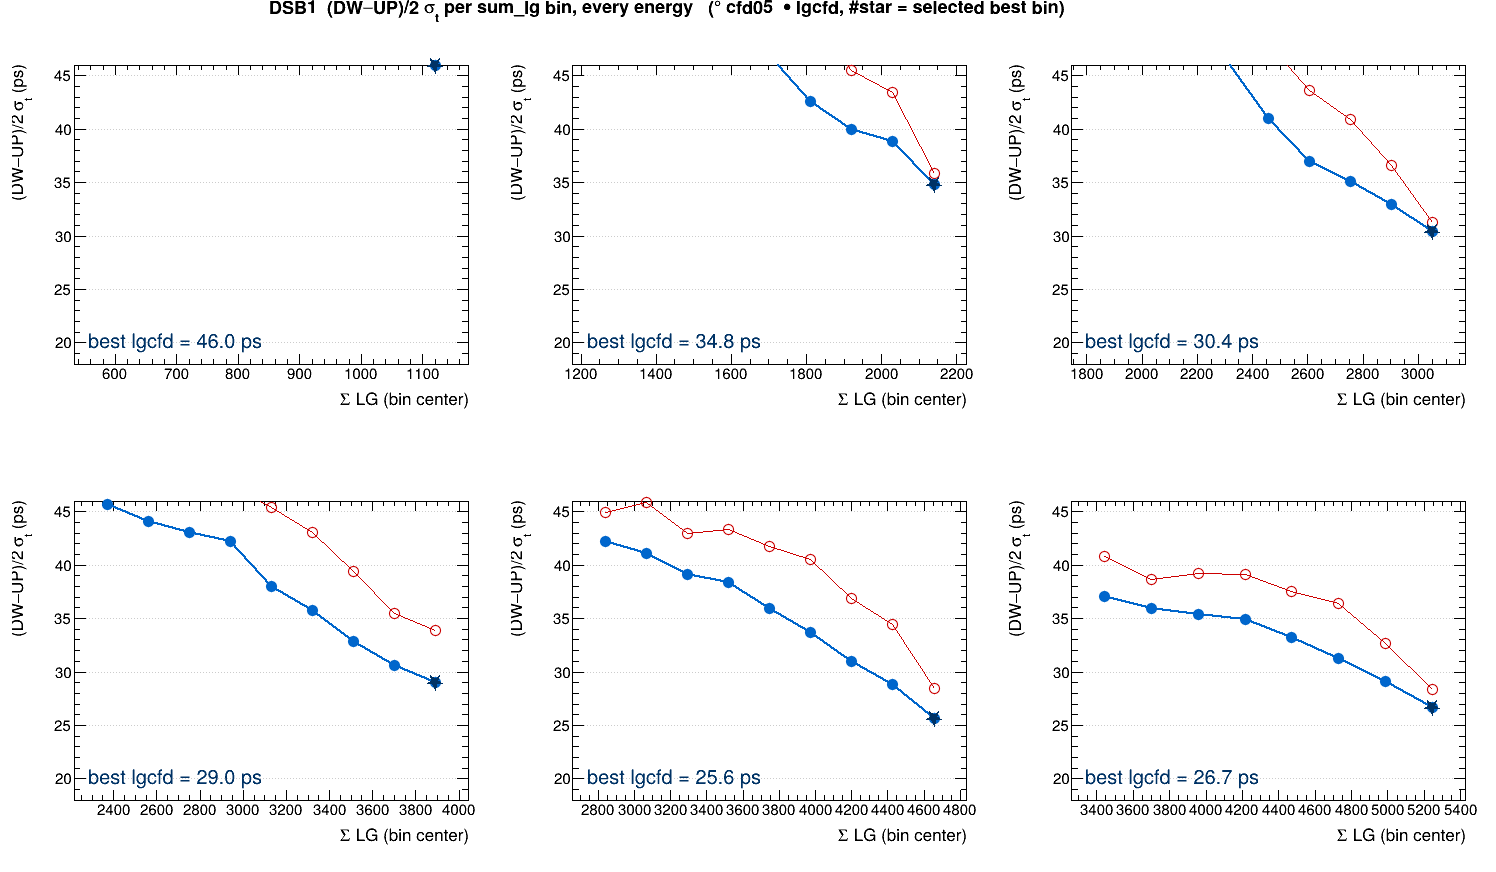
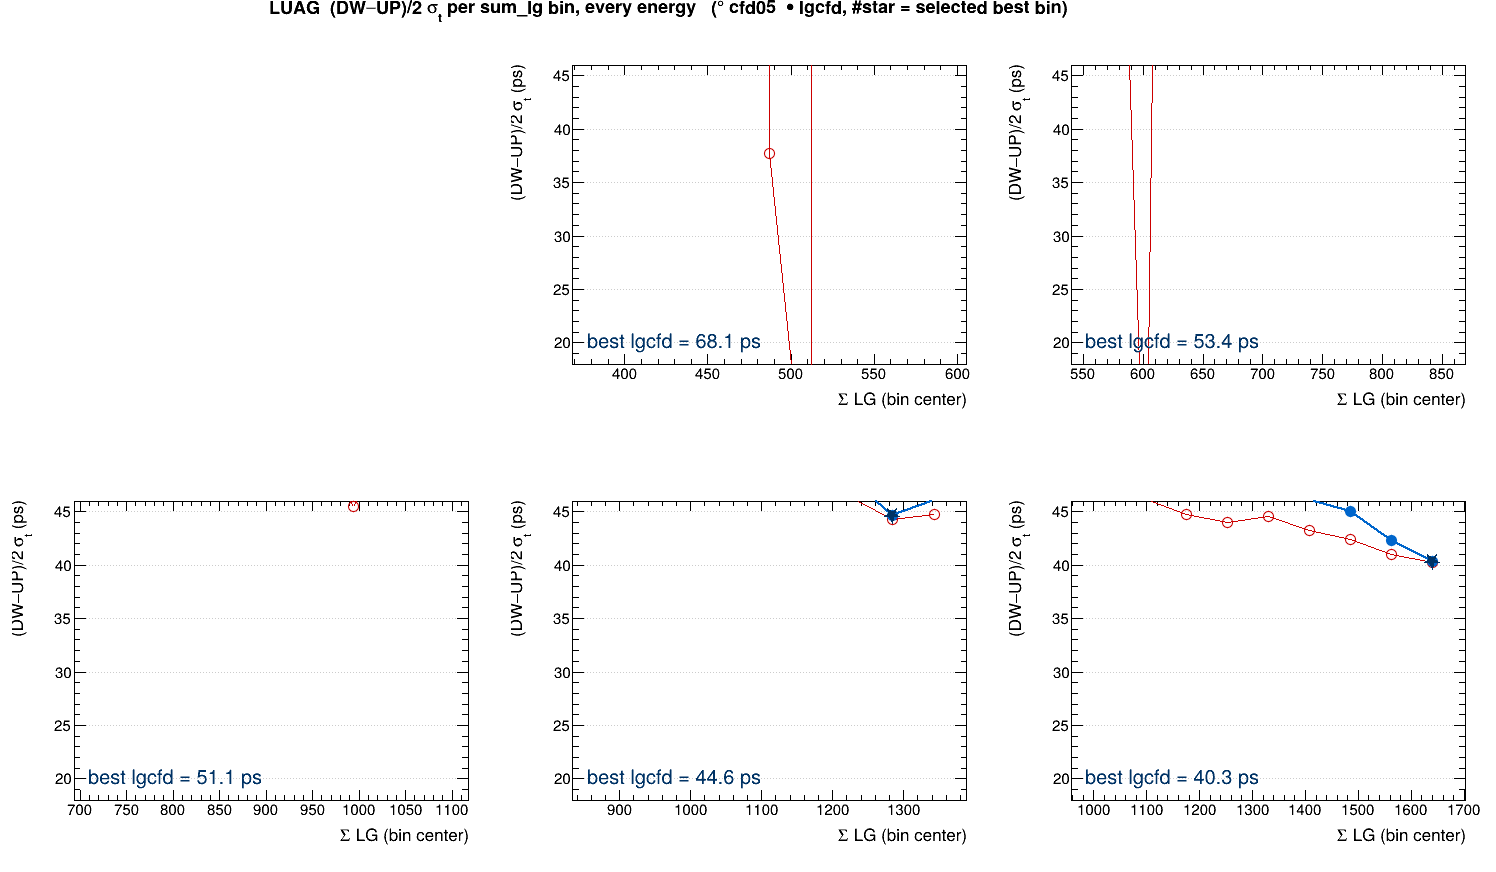
timing: LuAG isn't a bad bin — it's the low-light penalty (honest error bars)
james: what's up with LuAG; same reasoning as MIXED? No — different cause. MIXED
had a degenerate sub-floor bin (fixed by the >22 guard). LuAG (LuAG:Ce, ~5-10x
less light than DSB1: sum_lg ~487-1330 vs ~850-4472) is genuine low-light scatter.
Its ~5 ps point-to-point jumps far exceed sigma/sqrt(2N) ~ 0.3 ps -> same lesson as
the floor fits (chi2/ndf >> 1): the bare stat error misses point-to-point
systematics. Cross-build figure now carries error bars inflated by sqrt(chi2/ndf):
DSB1/TENERGY tiny (bright -> precise), LuAG huge (~+-10 ps) -> LuAG's jumpiness is
fully consistent with a smooth monotonic curve. Not a glitch, the low-light price.
crossBuild.C: TGraphErrors + PDG error scaling. Act VII caption/pull updated.

diff --git a/site/timing_story.html b/site/timing_story.html
@@ -250,15 +250,16 @@
   <figure>
     <img src="assets/narrative_crossbuild.png" alt="sigma_t vs energy for four builds, de-biased">
     <figcaption><b>The full spectrum.</b> Best-bin (DW&minus;UP)/2 &sigma;<sub>t</sub> vs energy, all four builds, de-biased
-    estimator. High-light <b>LYSO (DSB1)</b> sits lowest at ~30 ps; low-light <b>LuAG</b> tops out near 42 ps; the
-    mixed and energy builds fall cleanly in between. The best timing source also tracks the material: high-light,
-    heavily-clipped LYSO rewards <span class="mono">lgcfd</span> (true-peak edge), while dimmer LuAG &mdash; never
-    clipped &mdash; times best right at the <span class="mono">cfd05</span> foot. (MIXED's LG is partly compromised, so
-    treat its mid-range points as indicative.)</figcaption>
+    estimator. Error bars are scaled to the real point-to-point scatter (&radic;(&chi;&sup2;/ndf) &mdash; the bare
+    &sigma;/&radic;(2N) badly understates it). High-light <b>LYSO (DSB1)</b> sits lowest (~30 ps) with <b>tiny</b> error
+    bars; low-light <b>LuAG</b> tops out near 42 ps with <b>large</b> ones &mdash; its apparent jumpiness is fully
+    consistent with a smooth curve, the price of ~10&times; less light (not a bad bin). The best timing source also tracks
+    the material: clipped high-light LYSO rewards <span class="mono">lgcfd</span> (true-peak edge); dim, never-clipped
+    LuAG times best at the <span class="mono">cfd05</span> foot. (MIXED's LG is partly compromised.)</figcaption>
   </figure>
-  <div class="pull"><b>The spectrum, in one line.</b> Timing resolution is a light-yield thermometer: ~30 ps for the
-  brightest LYSO build down to ~42 ps for low-light LuAG &mdash; and the HG/LG-ratio method pays off precisely where
-  the light is brightest and the clipping is worst. The detector you build sets the clock you can read.</div>
+  <div class="pull"><b>The spectrum, in one line.</b> Timing resolution is a light-yield thermometer &mdash; and so is its
+  <i>precision</i>: ~30 ps with tight error bars for the brightest LYSO build, down to ~42 ps with wide ones for low-light
+  LuAG. More light buys you both a faster clock and a steadier reading. The detector you build sets the clock you can read.</div>
 </section>
 
 </main>

diff --git a/analyze/studies/crossBuild.C b/analyze/studies/crossBuild.C
@@ -15,6 +15,7 @@
 #include "TFile.h"
 #include "TTree.h"
 #include "TGraph.h"
+#include "TGraphErrors.h"
 #include "TF1.h"
 #include "TCanvas.h"
 #include "TLegend.h"
@@ -28,13 +29,13 @@
 #include <string>
 using namespace rad;
 
-// quantile best-bin sigma on in-memory (sum_lg, depth) pairs
-static double quantBest(std::vector<std::pair<float,float>> v){
-    if(v.size()<2000) return -1; std::sort(v.begin(),v.end());
+// quantile best-bin sigma on in-memory (sum_lg, depth) pairs; sets N=winning-bin count
+static double quantBest(std::vector<std::pair<float,float>> v, long& N){
+    N=0; if(v.size()<2000) return -1; std::sort(v.begin(),v.end());
     int NB=9; size_t per=v.size()/NB; double best=1e9;
     for(int b=0;b<NB;++b){ size_t lo=(size_t)b*per,hi=(b==NB-1)?v.size():lo+per; if(hi-lo<600)continue;
         std::vector<float> t; for(size_t k=lo;k<hi;++k) t.push_back(v[k].second); double s=tebSigma(t);
-        if(s>22&&s<best) best=s; } return best<1e8?best:-1;   // >22: no real RADiCAL quantile (DW-UP)/2 bin is lower (DSB1 best=29.6)
+        if(s>22&&s<best){best=s;N=hi-lo;} } return best<1e8?best:-1;   // >22: no real RADiCAL quantile (DW-UP)/2 bin is lower
 }
 // brightest-fraction f sigma (deterministic, OOS-stable)
 static double brightFrac(std::vector<std::pair<float,float>> v,double f){
@@ -61,7 +62,7 @@ void crossBuild(){
     for(int bi=0;bi<4;++bi){ const char* B=builds[bi];
         BuildConfig cfg=BuildConfig::Load(Form("data/2023/configs/%s.json",B)); if(!cfg.valid())continue;
         // per source: quantile ladder + brightest ladder
-        std::vector<std::vector<double>> q(nS),br(nS),Ev(nS);
+        std::vector<std::vector<double>> q(nS),br(nS),Ev(nS),eq(nS);
         for(double E:Es){ TFile* fp=TFile::Open(radReduced(B,E)); if(!fp||fp->IsZombie())continue;
             TTree* t=(TTree*)fp->Get("rad"); RadView v; v.attach(t,&cfg);
             double xc,yc; v.beamCenter(xc,yc); double r2=9.0; Long64_t N=v.entries();
@@ -73,8 +74,8 @@ void crossBuild(){
                     for(int ch=0;ch<4;++ch) if(v.is_timing(ch)&&v.hg_peak(ch)>=kHG_minPeak){float tc=v.timeOf(ch,SRC[s]);if(tc>-1e5){ds+=tc;++dn;}}
                     for(int ch=4;ch<8;++ch) if(v.is_timing(ch)&&v.hg_peak(ch)>=kHG_minPeak){float tc=v.timeOf(ch,SRC[s]);if(tc>-1e5){us+=tc;++un;}}
                     if(dn>=1&&un>=1) P[s].push_back({(float)v.sum_lg(),0.5f*(float)(ds/dn-us/un)}); } }
-            for(int s=0;s<nS;++s){ double sq=quantBest(P[s]), sb=brightFrac(P[s],0.02);
-                if(sq>0){q[s].push_back(sq);br[s].push_back(sb);Ev[s].push_back(E);} }
+            for(int s=0;s<nS;++s){ long nn; double sq=quantBest(P[s],nn), sb=brightFrac(P[s],0.02);
+                if(sq>0){q[s].push_back(sq);br[s].push_back(sb);Ev[s].push_back(E);eq[s].push_back(sq/std::sqrt(2.0*nn));} }
             fp->Close();
         }
         // pick best source by sigma@150 (quantile)
@@ -83,12 +84,17 @@ void crossBuild(){
             if(Ev[s].back()==150 && s150>0 && s150<bestS){bestS=s150;best=s;} }
         if(best<0) continue;
         TF1 f("f","sqrt([0]*[0]/x+[1]*[1])",20,160); f.SetParameters(200,25);
-        TGraph* g=new TGraph(q[best].size(),&Ev[best][0],&q[best][0]); g->Fit(&f,"Q");
+        std::vector<double> ze(q[best].size(),0.0);
+        TGraphErrors* g=new TGraphErrors(q[best].size(),&Ev[best][0],&q[best][0],&ze[0],&eq[best][0]); g->Fit(&f,"Q");
+        // inflate per-point errors by sqrt(chi2/ndf): the bare sigma/sqrt(2N) misses the real
+        // point-to-point systematic scatter (run-to-run, selection) -- worst for low-light LuAG.
+        double cn=f.GetChisquare()/std::max(1,f.GetNDF()), esc=(cn>1?std::sqrt(cn):1.0);
+        for(int p=0;p<g->GetN();++p) g->SetPointError(p,0,g->GetErrorY(p)*esc);
         double floor=std::fabs(f.GetParameter(1)), s150q=q[best].back(), s150b=br[best].back();
         char fb[16]; if(floor>=5) snprintf(fb,16,"%.0f",floor); else snprintf(fb,16,"--");
         char bb[16]; if(s150b>0) snprintf(bb,16,"%.1f",s150b); else snprintf(bb,16,"--");
         printf("%-7s  %-20s  %-7s   %5.1f            %5s       %5s\n",B,mat[bi],sname[best],s150q,bb,fb);
-        g->SetMarkerStyle(20+bi); g->SetMarkerColor(col[bi]); g->SetLineColor(col[bi]); g->SetMarkerSize(1.5); g->SetLineWidth(3);
+        g->SetMarkerStyle(20+bi); g->SetMarkerColor(col[bi]); g->SetLineColor(col[bi]); g->SetMarkerSize(1.5); g->SetLineWidth(2);
         g->Draw("LP SAME"); TF1* ff=(TF1*)f.Clone(); ff->SetLineColor(col[bi]); ff->SetLineStyle(2); ff->SetLineWidth(1); ff->Draw("SAME");
         lg->AddEntry(g,Form("%s  #color[920]{%s}  (%s)  %.0f ps",B,matS[bi],sname[best],s150q),"lp");
     }